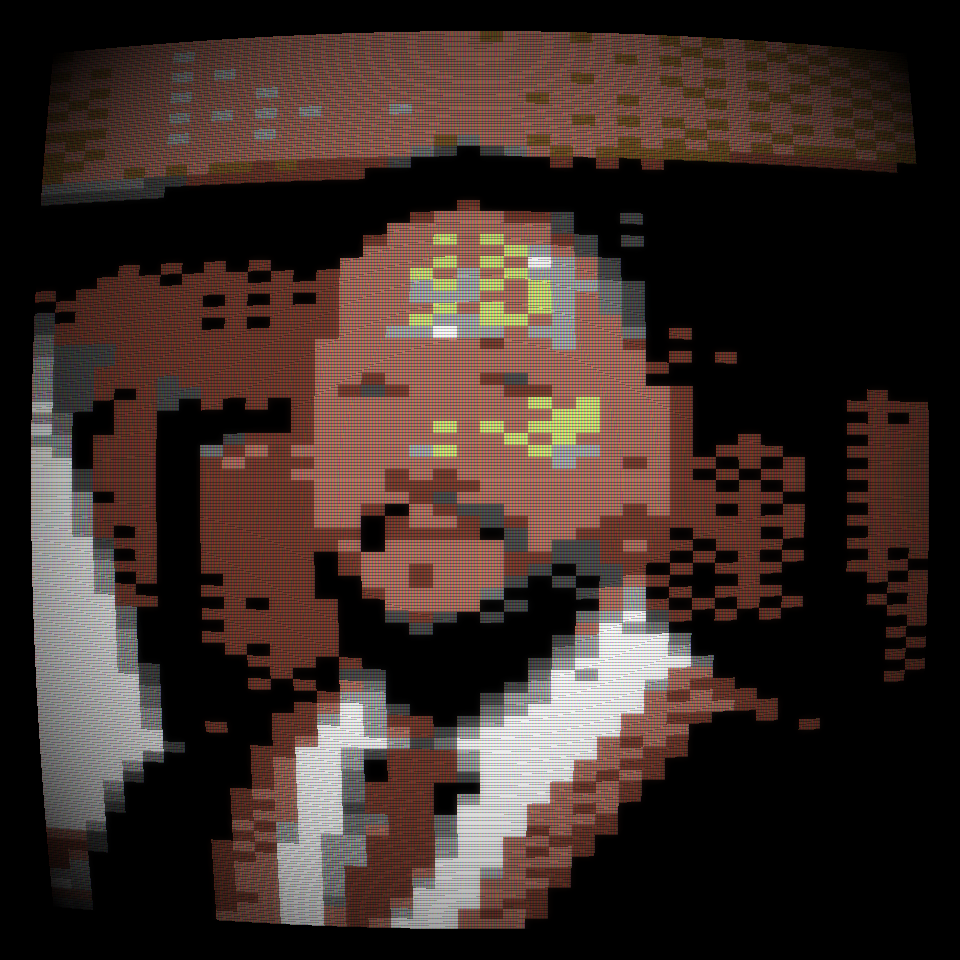
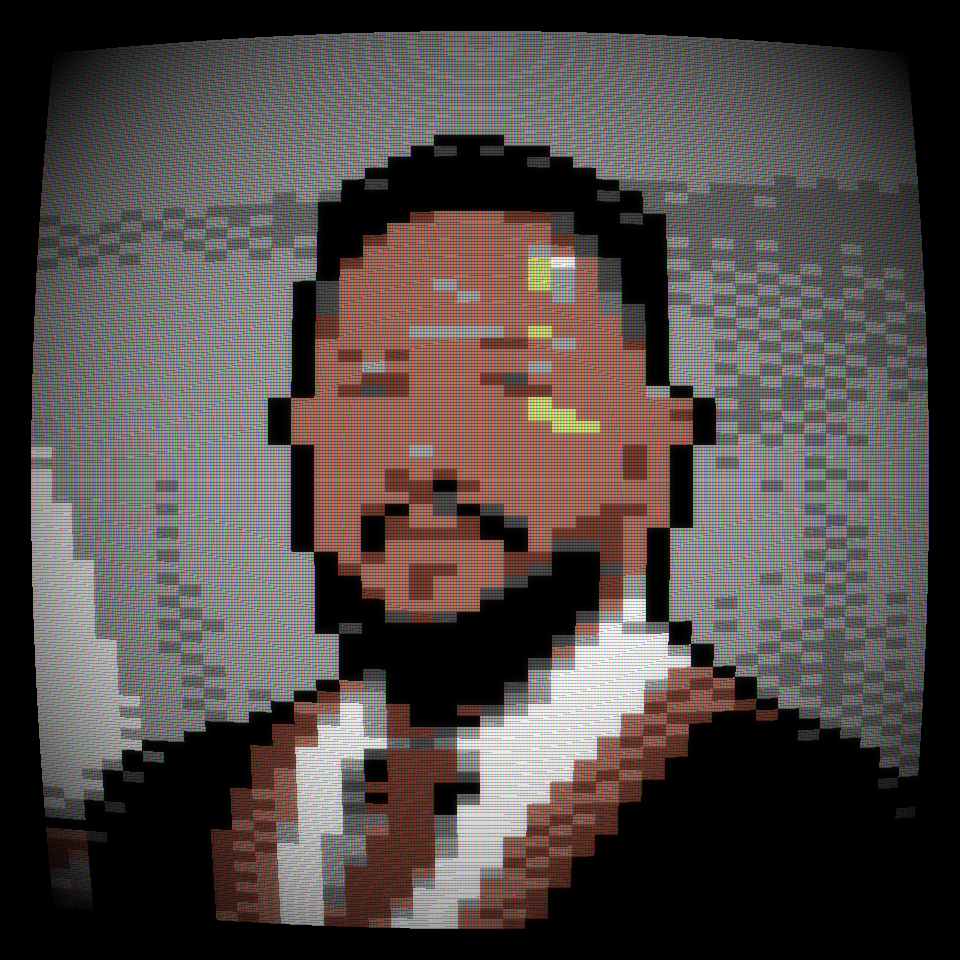
Pixel art: modo retrato para que la persona destaque
Detecta la cara y separa a la persona del fondo (OpenCV + GrabCut, con forma
de busto si no hay OpenCV), simplifica el fondo, da más peso a la cara en la
paleta, quita el tramado de la piel, aplica nitidez a escala de píxel y
delinea la silueta. Opciones --fondo, --color-fondo, --encuadre, --sin-silueta.
Ejemplos regenerados con --retrato y comparativa antes/después.

Claude-Session: https://claude.ai/code/session_01Gx3u8jv1VyXJZdnCnPYDXp

diff --git a/pixel-art/pixelar.py b/pixel-art/pixelar.py
@@ -101,8 +101,13 @@ def mas_cercano(pix, pal, pal_lab=None):
     return d.argmin(1)
 
 
-def paleta_adaptativa(img_small, n, bits=None):
-    """N colores elegidos para esta imagen (k-means de PIL); opcionalmente encajados en la grilla de bits de la consola."""
+def paleta_adaptativa(img_small, n, bits=None, pesos=None):
+    """N colores elegidos para esta imagen (k-means de PIL); opcionalmente encajados en la grilla de bits de la consola.
+    pesos (H,W): cada píxel se repite según su peso, para que la cara reciba más colores."""
+    if pesos is not None:
+        px = np.asarray(img_small).reshape(-1, 3)
+        px = np.repeat(px, np.maximum(1, np.round(pesos.ravel())).astype(int), axis=0)
+        img_small = Image.fromarray(px[None].astype(np.uint8))
     q = img_small.quantize(colors=n, method=Image.Quantize.MAXCOVERAGE, kmeans=4)
     pal = np.array(q.getpalette()[:n * 3]).reshape(-1, 3)
     if bits:
@@ -116,12 +121,13 @@ def cuantizar_bits(arr, bits):
     return np.round(np.round(arr / 255 * niveles) / niveles * 255).astype(np.int64)
 
 
-def limitar_paleta(small, pal, max_colores):
-    """De una paleta fija grande, se queda con los max_colores más usados en esta imagen (como haría un artista)."""
+def limitar_paleta(small, pal, max_colores, pesos=None):
+    """De una paleta fija grande, se queda con los max_colores más usados en esta imagen (como haría un artista).
+    pesos (H,W): cuánto cuenta cada píxel; en modo retrato la cara pesa más, así sus tonos no se pierden."""
     if max_colores is None or max_colores >= len(pal):
         return pal
     idx = mas_cercano(small.reshape(-1, 3).astype(float), pal)
-    conteo = np.bincount(idx, minlength=len(pal))
+    conteo = np.bincount(idx, weights=None if pesos is None else pesos.ravel(), minlength=len(pal))
     # asegura el más oscuro y el más claro usados, que dan el contraste
     lum = pal @ np.array([0.299, 0.587, 0.114])
     usados = np.nonzero(conteo)[0]
@@ -153,6 +159,8 @@ def aplicar_paleta(small, pal, dither="none", intensidad=1.0):
     pal_lab = rgb_a_lab(pal)
     h, w, _ = small.shape
     img = small.astype(np.float64)
+    # intensidad puede ser un número o un mapa (H,W): en modo retrato la cara lleva menos tramado
+    inten = np.broadcast_to(np.asarray(intensidad, dtype=np.float64), (h, w))
 
     if dither.startswith("bayer"):
         n = int(dither[5:])
@@ -162,7 +170,7 @@ def aplicar_paleta(small, pal, dither="none", intensidad=1.0):
         dist = np.sqrt(((pal[:, None] - pal[None]) ** 2).sum(-1))
         dist[dist == 0] = np.inf
         paso = np.median(dist.min(1))
-        img = img + umbral * paso * intensidad
+        img = img + umbral * paso * inten[..., None]
         idx = mas_cercano(img.reshape(-1, 3), pal, pal_lab).reshape(h, w)
         return pal[idx].astype(np.uint8)
 
@@ -177,7 +185,7 @@ def aplicar_paleta(small, pal, dither="none", intensidad=1.0):
                 viejo = img[y, x]
                 nuevo = pal[mas_cercano(viejo[None], pal, pal_lab)[0]]
                 out[y, x] = nuevo
-                err = (viejo - nuevo) * intensidad
+                err = (viejo - nuevo) * inten[y, x]
                 for dy, dx, f in reglas:
                     yy, xx = y + dy, x + dx * sgn
                     if 0 <= yy < h and 0 <= xx < w:
@@ -190,8 +198,9 @@ def aplicar_paleta(small, pal, dither="none", intensidad=1.0):
 
 # ---------------------------------------------------------------- contorno
 
-def contorno(px, pal, umbral=60, color=None):
-    """Pinta de oscuro los bordes fuertes (diferencia de luminancia con el vecino), como el delineado de un sprite."""
+def contorno(px, pal, umbral=60, color=None, zona=None):
+    """Pinta de oscuro los bordes fuertes (diferencia de luminancia con el vecino), como el delineado de un sprite.
+    zona (H,W) bool: limita el delineado a esa región (la persona, en modo retrato)."""
     lum = px.astype(float) @ np.array([0.299, 0.587, 0.114])
     borde = np.zeros(lum.shape, bool)
     dx = lum[:, 1:] - lum[:, :-1]
@@ -201,12 +210,126 @@ def contorno(px, pal, umbral=60, color=None):
     borde[:, 1:] |= -dx > umbral
     borde[:-1, :] |= dy > umbral
     borde[1:, :] |= -dy > umbral
+    if zona is not None:
+        borde &= zona
     if color is None:
-        pal = np.asarray(pal)
-        color = pal[(pal @ np.array([0.299, 0.587, 0.114])).argmin()]
+        color = mas_oscuro(pal)
     out = px.copy()
     out[borde] = color
     return out
+
+
+def mas_oscuro(pal):
+    pal = np.asarray(pal)
+    return pal[(pal @ np.array([0.299, 0.587, 0.114])).argmin()]
+
+
+def silueta(px, persona, color):
+    """Delinea el borde exterior de la persona (los píxeles de fondo que la tocan), como un sprite sobre un escenario."""
+    dentro = persona > 0.5
+    vecino = np.zeros_like(dentro)
+    vecino[1:] |= dentro[:-1]
+    vecino[:-1] |= dentro[1:]
+    vecino[:, 1:] |= dentro[:, :-1]
+    vecino[:, :-1] |= dentro[:, 1:]
+    out = px.copy()
+    out[vecino & ~dentro] = color
+    return out
+
+
+# ---------------------------------------------------------------- modo retrato
+
+def _opencv():
+    try:
+        import cv2
+        return cv2
+    except ImportError:
+        return None
+
+
+def detectar_sujeto(img):
+    """Separa a la persona del fondo. Devuelve (persona, cara, caja_cara): máscaras 0-1 a resolución completa.
+
+    Con OpenCV (pip install "opencv-python-headless<5"): detecta la cara y recorta la silueta con GrabCut,
+    partiendo de la forma típica de un busto. Sin OpenCV usa esa forma de busto supuesta en el centro."""
+    w, h = img.size
+    cv2 = _opencv()
+    bgr = np.ascontiguousarray(np.asarray(img)[..., ::-1])
+    caja = None
+    if cv2 is not None and hasattr(cv2, "CascadeClassifier"):
+        casc = cv2.CascadeClassifier(cv2.data.haarcascades + "haarcascade_frontalface_default.xml")
+        gris = cv2.cvtColor(bgr, cv2.COLOR_BGR2GRAY)
+        caras = casc.detectMultiScale(gris, 1.1, 5, minSize=(max(24, w // 12),) * 2)
+        if len(caras):
+            caja = tuple(int(v) for v in max(caras, key=lambda r: r[2] * r[3]))
+    if caja is None:
+        print("  aviso: no se detectó la cara (¿falta OpenCV?); se supone un retrato centrado", file=sys.stderr)
+        lado = int(min(w, h) * 0.4)
+        caja = ((w - lado) // 2, int(h * 0.22), lado, lado)
+    x, y, fw, fh = caja
+    cx, cy = x + fw / 2, y + fh / 2
+    yy, xx = np.mgrid[0:h, 0:w]
+
+    def elipse(sx, sy, dy=0.0):
+        return ((xx - cx) / (fw * sx)) ** 2 + ((yy - (cy + dy * fh)) / (fh * sy)) ** 2 < 1
+
+    # busto: cabeza ovalada + torso que se abre desde la barbilla hasta ~3 caras de ancho
+    # sin GrabCut que la ajuste, la forma se dibuja más ceñida para no arrastrar fondo
+    holgura = 1.0 if cv2 is not None else 0.82
+    t = (yy - (y + fh * 0.8)) / (fh * 1.2)
+    persona = (elipse(0.75 * holgura, 0.85 * holgura, -0.1)
+               | ((t > 0) & (np.abs(xx - cx) < fw * holgura * (0.45 + 1.4 * np.clip(t, 0, 1)))))
+    if cv2 is not None:
+        m = np.full((h, w), cv2.GC_BGD, np.uint8)
+        m[persona] = cv2.GC_PR_FGD
+        m[(m == cv2.GC_BGD) & elipse(1.0, 1.1, -0.1)] = cv2.GC_PR_BGD
+        m[elipse(0.35, 0.45)] = cv2.GC_FGD
+        cv2.grabCut(bgr, m, None, np.zeros((1, 65)), np.zeros((1, 65)), 6, cv2.GC_INIT_WITH_MASK)
+        persona = (m == cv2.GC_FGD) | (m == cv2.GC_PR_FGD)
+    persona = Image.fromarray(persona.astype(np.uint8) * 255).filter(ImageFilter.GaussianBlur(max(1, w // 300)))
+    cara = Image.fromarray(elipse(0.6, 0.75).astype(np.uint8) * 255).filter(ImageFilter.GaussianBlur(fw / 12))
+    return np.asarray(persona) / 255.0, np.asarray(cara) / 255.0, caja
+
+
+def tratar_fondo(img, persona, modo, color=None, ancho=64):
+    """Simplifica el fondo para que la persona destaque: 'suave' (desenfoca y apaga), 'oscuro', 'plano', 'color'."""
+    if modo == "original":
+        return img
+    bloque = img.width / ancho
+    if modo == "suave":
+        # desenfoca y apaga el color; el tono se lleva al contrario del borde de la persona
+        # (pelo y traje oscuros -> fondo claro), para que la silueta se lea
+        f = np.asarray(ImageEnhance.Color(img.filter(ImageFilter.GaussianBlur(bloque * 1.5))).enhance(0.45)).astype(float)
+        lum = np.asarray(img.convert("L")).astype(float)
+        borde = (persona > 0.2) & (persona < 0.8)
+        claro = lum[borde].mean() < 128 if borde.any() else True
+        objetivo = 175 if claro else 55
+        f = objetivo + (f - f.mean()) * 0.35
+        f = Image.fromarray(np.clip(f, 0, 255).astype(np.uint8))
+    elif modo == "oscuro":
+        f = img.filter(ImageFilter.GaussianBlur(bloque * 1.5))
+        f = ImageEnhance.Brightness(ImageEnhance.Color(f).enhance(0.45)).enhance(0.35)
+    elif modo == "plano":
+        a = np.asarray(img).reshape(-1, 3)[persona.ravel() < 0.1]
+        f = Image.new("RGB", img.size, tuple(int(v) for v in np.median(a, 0) * 0.7))
+    else:
+        f = Image.new("RGB", img.size, _hex(color.lstrip("#"))[0] if color else (60, 188, 252))
+    m = persona[..., None]
+    return Image.fromarray((np.asarray(img) * m + np.asarray(f) * (1 - m)).astype(np.uint8))
+
+
+def encuadrar(img, mascaras, caja, caras_de_ancho):
+    """Recorta a primer plano (cabeza y hombros) para gastar los pocos píxeles en la persona."""
+    x, y, fw, fh = caja
+    lado = int(min(img.width, img.height, fw * caras_de_ancho))
+    izq = int(np.clip(x + fw / 2 - lado / 2, 0, img.width - lado))
+    arriba = int(np.clip(y - 0.55 * fh, 0, img.height - lado))
+    b = (izq, arriba, izq + lado, arriba + lado)
+    return img.crop(b), [m[b[1]:b[3], b[0]:b[2]] for m in mascaras]
+
+
+def _reducir(m, size):
+    return np.asarray(Image.fromarray((m * 255).astype(np.uint8)).resize(size, Image.BOX)) / 255.0
 
 
 # ---------------------------------------------------------------- efectos de pantalla
@@ -289,11 +412,28 @@ PRESETS = {
 
 def pixelar(img, ancho=64, aspecto=1, paleta="adaptativa", colores=16, max_colores=None, bits=None,
             dither="none", intensidad=1.0, contorno_on=False, umbral_contorno=60,
-            contraste=1.0, saturacion=1.0, brillo=1.0, nitidez=1.0, suavizar=0, autocontraste=False, recorte=None, **_):
-    """Devuelve la imagen en su resolución "de consola" (H,W,3) uint8."""
+            contraste=1.0, saturacion=1.0, brillo=1.0, nitidez=1.0, suavizar=0, autocontraste=False, recorte=None,
+            retrato=False, fondo=None, color_fondo=None, encuadre=None, silueta_on=None, **_):
+    """Devuelve la imagen en su resolución "de consola" (H,W,3) uint8.
+
+    retrato=True prioriza a la persona: fondo simplificado, más colores y nitidez para la cara,
+    menos tramado sobre la piel, delineado de la silueta y del interior solo en la persona."""
     img = img.convert("RGB")
     if recorte:
         img = img.crop(recorte)
+    persona = cara = None
+    if retrato:
+        persona, cara, caja = detectar_sujeto(img)
+        if encuadre:
+            img, (persona, cara) = encuadrar(img, (persona, cara), caja, encuadre)
+        # piel sin textura (la mediana aplana manchas y conserva bordes) y luego nitidez a la escala del píxel
+        # final, para que ojos, cejas y barba sobrevivan a la reducción
+        bloque = img.width / ancho
+        lisa = img.filter(ImageFilter.MedianFilter(max(3, int(bloque * 0.6) | 1)))
+        nitida = np.asarray(lisa.filter(ImageFilter.UnsharpMask(radius=bloque * 0.8, percent=70, threshold=2)))
+        m = np.clip(persona * 0.5 + cara, 0, 1)[..., None]
+        img = Image.fromarray((nitida * m + np.asarray(img) * (1 - m)).astype(np.uint8))
+        img = tratar_fondo(img, persona, fondo or "suave", color_fondo, ancho)
     if autocontraste:
         img = ImageOps.autocontrast(img, cutoff=1)  # estira el rango: clave con paletas de 4 colores
     if suavizar:
@@ -306,6 +446,14 @@ def pixelar(img, ancho=64, aspecto=1, paleta="adaptativa", colores=16, max_color
     h = max(1, round(img.height / img.width * ancho))
     small = img.resize((w, h), Image.BOX)  # promedio por bloque: menos ruido que tomar un píxel suelto
     arr = np.asarray(small)
+    pesos = zona = None
+    if retrato:
+        persona, cara = _reducir(persona, (w, h)), _reducir(cara, (w, h))
+        pesos = 1 + 3 * persona + 10 * cara
+        intensidad = intensidad * (0.3 + 0.7 * persona) * (1 - 0.7 * cara)  # tramado sobre la ropa, no en piel ni fondo
+        zona = persona > 0.5
+        if silueta_on is None:
+            silueta_on = True
 
     if paleta in MONOCROMAS:
         # consolas de un solo tono: se trabaja en grises y luego se tiñe con la rampa de la paleta
@@ -314,15 +462,17 @@ def pixelar(img, ancho=64, aspecto=1, paleta="adaptativa", colores=16, max_color
         grises = np.linspace(0, 255, len(rampa)).round()[:, None].repeat(3, 1)
         px = aplicar_paleta(gris, grises, dither, intensidad)
         px = rampa[np.abs(px[..., :1] - grises[None, None, :, 0]).argmin(-1)].astype(np.uint8)
-        return contorno(px, rampa, umbral_contorno) if contorno_on else px
-    if paleta == "adaptativa":
-        pal = paleta_adaptativa(small, colores, bits)
+        pal = rampa
     else:
-        pal = np.array(PALETAS[paleta])
-        pal = limitar_paleta(arr, pal, max_colores)
-    px = aplicar_paleta(arr, pal, dither, intensidad)
+        if paleta == "adaptativa":
+            pal = paleta_adaptativa(small, colores, bits, pesos)
+        else:
+            pal = limitar_paleta(arr, np.array(PALETAS[paleta]), max_colores, pesos)
+        px = aplicar_paleta(arr, pal, dither, intensidad)
     if contorno_on:
-        px = contorno(px, pal, umbral_contorno)
+        px = contorno(px, pal, umbral_contorno, zona=zona)
+    if silueta_on and persona is not None:
+        px = silueta(px, persona, mas_oscuro(pal))
     return px
 
 
@@ -346,6 +496,8 @@ def config(args, preset=None):
             c[k] = v
     c["autocontraste"] = args.autocontraste or c.get("autocontraste", False)
     c["contorno_on"] = args.contorno or c.pop("contorno", False)
+    c.update(retrato=args.retrato, fondo=args.fondo, color_fondo=args.color_fondo, encuadre=args.encuadre,
+             silueta_on=False if args.sin_silueta else None)
     c.setdefault("aspecto", 1)
     return c
 
@@ -408,6 +560,15 @@ def main():
     g = p.add_argument_group("estilo")
     g.add_argument("--contorno", action="store_true", help="delineado oscuro tipo sprite")
     g.add_argument("--umbral-contorno", type=int, help="sensibilidad del delineado (menor = más líneas)")
+    g = p.add_argument_group("modo retrato (que se aprecie más la persona)")
+    g.add_argument("--retrato", action="store_true",
+                   help="detecta a la persona: fondo simple, más colores y nitidez en la cara, silueta delineada")
+    g.add_argument("--fondo", choices=["suave", "oscuro", "plano", "color", "original"],
+                   help="tratamiento del fondo en modo retrato (por defecto suave)")
+    g.add_argument("--color-fondo", help="color hex para --fondo color, p. ej. 3CBCFC (cielo NES)")
+    g.add_argument("--encuadre", type=float, help="recorta a primer plano: ancho del cuadro en caras (p. ej. 2.5)")
+    g.add_argument("--sin-silueta", action="store_true", help="no delinear el borde de la persona")
+    g = p.add_argument_group("pantalla")
     g.add_argument("--rejilla", action="store_true", help="dibuja la cuadrícula de píxeles")
     g.add_argument("--scanlines", action="store_true", help="líneas horizontales de TV")
     g.add_argument("--crt", action="store_true", help="simula un televisor de tubo")

diff --git a/pixel-art/README.md b/pixel-art/README.md
@@ -2,13 +2,16 @@
 
 `pixelar.py` convierte una foto en pixel art con la estética de consolas clásicas
 (Atari 2600, NES, Game Boy, SNES, Genesis, Master System, PICO-8, C64, CGA, ZX Spectrum).
-Solo necesita Python 3, Pillow y NumPy.
+Necesita Python 3, Pillow y NumPy. Para el modo retrato conviene además OpenCV
+(`pip install -r requirements.txt`); sin él funciona igual, pero recorta a la persona con una forma aproximada.
 
 ```bash
 python3 pixelar.py foto.jpg --listar                  # presets y paletas
 python3 pixelar.py foto.jpg --preset nes              # un estilo
 python3 pixelar.py foto.jpg --preset gameboy --crt    # con efecto de televisor de tubo
 python3 pixelar.py foto.jpg --galeria salida/         # todos los estilos + hoja comparativa
+python3 pixelar.py foto.jpg --preset nes --retrato    # que la persona destaque
+python3 pixelar.py foto.jpg --galeria salida/ --retrato
 python3 pixelar.py foto.jpg --ancho 48 --paleta pico8 --dither none --contorno --suavizar 5 --nativo
 ```
 
@@ -21,9 +24,24 @@ python3 pixelar.py foto.jpg --ancho 48 --paleta pico8 --dither none --contorno -
 | Paleta | fijas: `nes atari2600 gameboy gbpocket pico8 c64 cga cga2 zx ega sms`; `adaptativa` con `--colores N`; `--max-colores N` (usa solo los N más útiles de una paleta fija); `--bits` (5 = SNES, 3 = Genesis) |
 | Tramado | `--dither none floyd atkinson sierra bayer2 bayer4 bayer8`, `--intensidad 0–1.5` |
 | Estilo sprite | `--contorno` (delineado oscuro), `--umbral-contorno` |
+| Modo retrato | `--retrato`: detecta la cara y recorta la silueta (GrabCut); `--fondo suave/oscuro/plano/color/original`, `--color-fondo 3CBCFC`, `--encuadre 2.5` (primer plano, ancho en caras), `--sin-silueta` |
 | Pantalla | `--rejilla`, `--scanlines`, `--crt` (máscara RGB, resplandor, viñeta, curvatura), `--nativo` (guarda también la versión 1:1) |
 
 Los colores se comparan en CIELAB (como los percibe el ojo), la reducción promedia cada bloque
 y el recorrido de Floyd/Atkinson es en serpentina para evitar vetas.
 
-Ejemplo: `entrada/retrato.png` → `salida/` (`_comparativa.png` reúne todos los estilos; `*_crt.png` con efecto TV).
+## Modo retrato
+
+Con pocos píxeles la cara compite con el fondo por los colores y el detalle. `--retrato`:
+
+1. detecta la cara y separa a la persona del fondo;
+2. simplifica el fondo (desenfocado, sin color y con el tono contrario al borde de la persona: pelo y traje
+   oscuros → fondo claro), o lo reemplaza por un color liso;
+3. alisa la textura de la piel y aplica nitidez a la escala del píxel final (ojos, cejas, barba);
+4. reparte la paleta dando más peso a la cara, así sus tonos no se pierden;
+5. quita el tramado de la piel y del fondo (queda solo en la ropa);
+6. delinea la silueta y limita el contorno interior a la persona, como un sprite.
+
+Para aún más detalle en la cara: `--encuadre 2` (primer plano) o un `--ancho` mayor (p. ej. 96 en NES).
+
+Ejemplo: `entrada/retrato.png` → `salida/` (`_comparativa.png` reúne todos los estilos; `*_crt.png` con efecto TV; `_antes_despues.png` compara sin y con `--retrato`).
